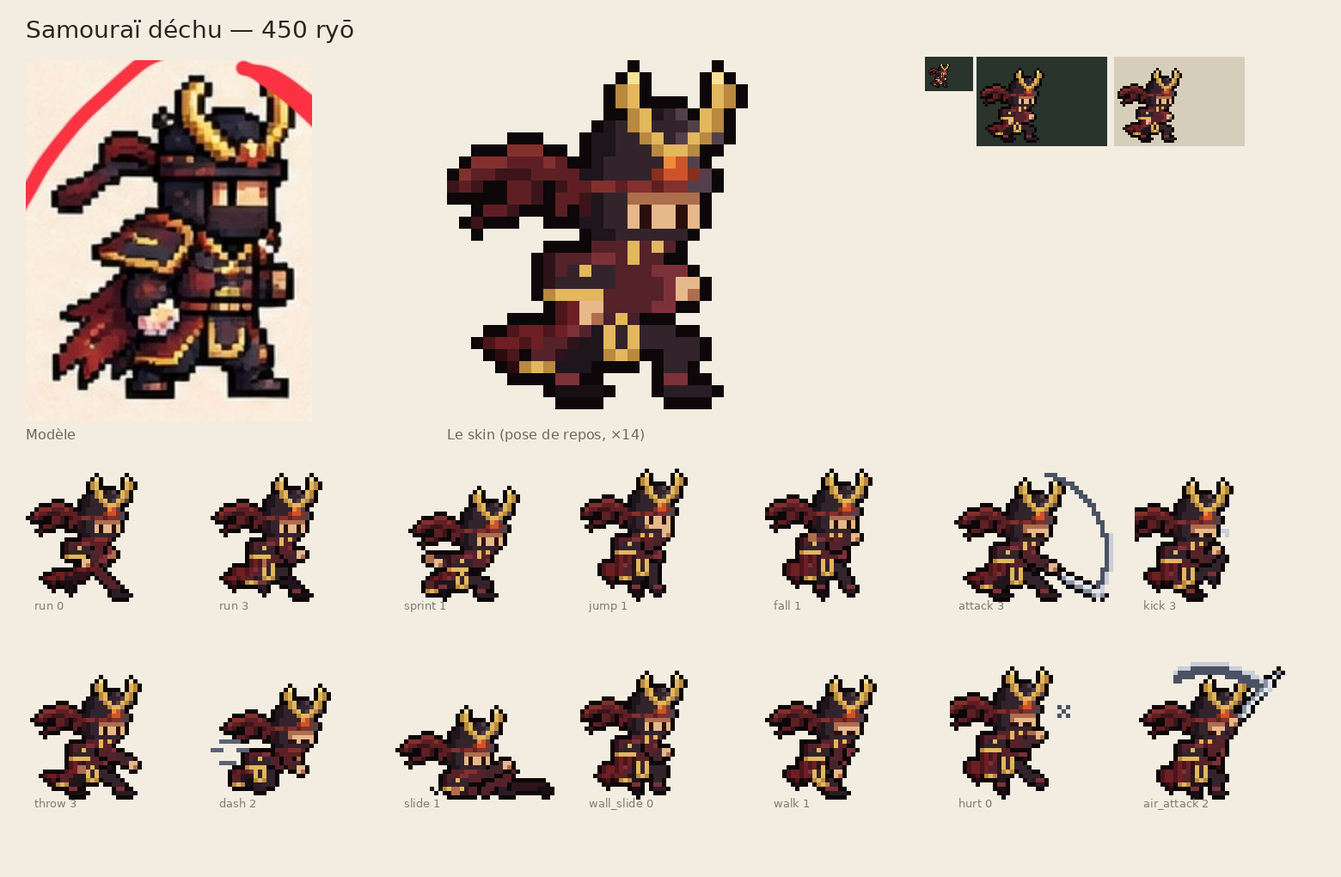
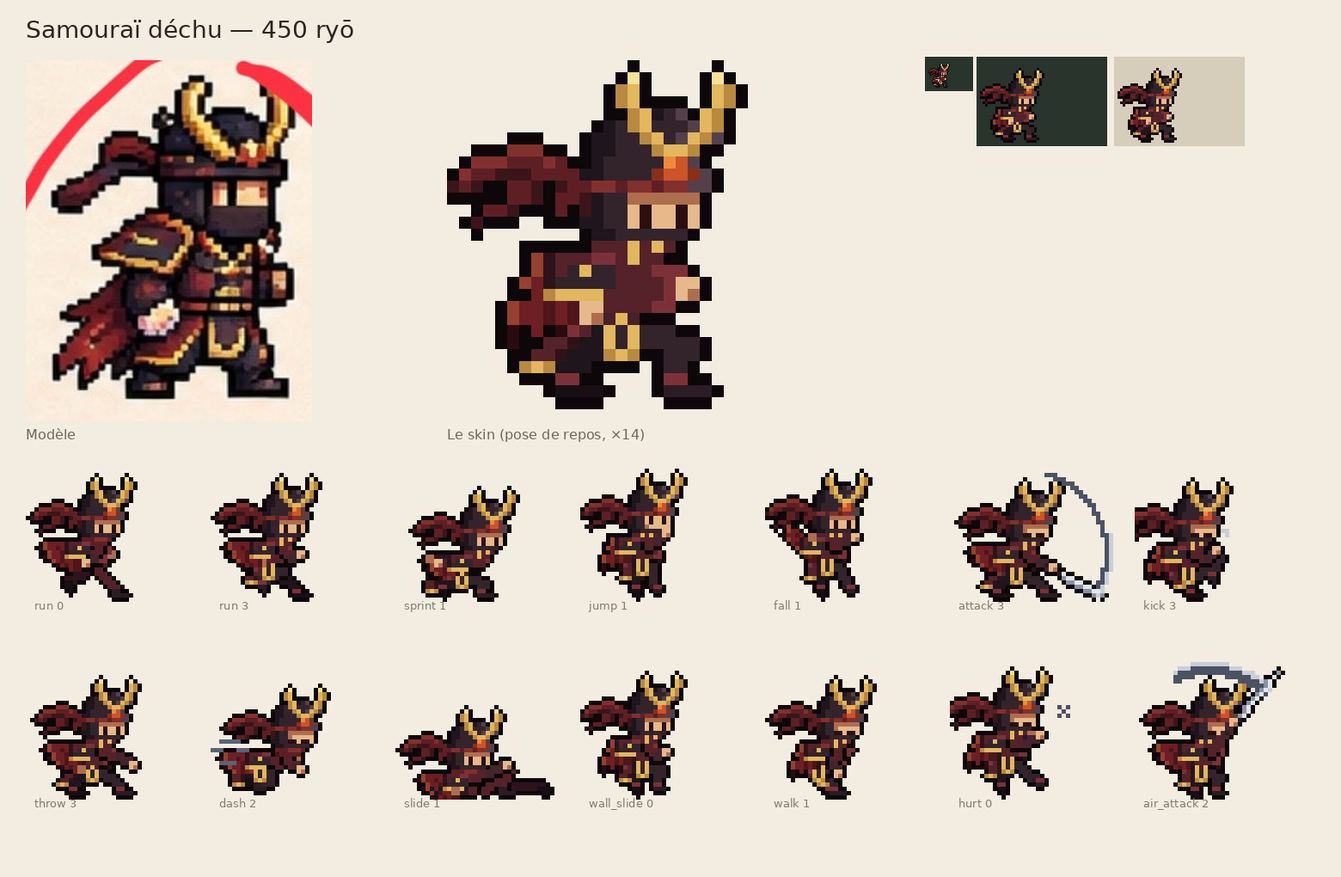
Cape du samouraï selon le vent ; boutique sans description ; panneau de test derrière un bouton
Cape du Samouraï déchu (demandes de Raph : plus large, plus courte, des angles
nets, jamais une queue ni un sac) : trois gabarits dessinés à la main (CAPE),
choisis selon le vent de la pose, lu sur les pans du bandeau que la forge
anime déjà (_wind) : au repos plaquée dans le dos des épaules aux genoux, bord
extérieur droit, une entaille sur le côté, le bas en pointes ; en course elle
vole haut derrière les épaules ; en chute elle se soulève.

Boutique : plus de description, le bouton d'achat se voit tout de suite ; sur
un écran bas (téléphone), nom en petits caractères et aperçu à l'échelle 1 ;
partout, si le bouton passait sous le bord, l'aperçu se réduit (fitDetail).

Version de test : tout le panneau (skins, chapitres, son, zones) s'ouvre et se
ferme d'un seul bouton « Réglages » ; fermé au premier lancement, puis comme
on l'a laissé.

Tests : bouton d'achat visible pour chaque skin ; panneau ouvert, refermé,
gardé fermé au rechargement. Carte mentale, SKINS.md et CLAUDE.md à jour.

Claude-Session: https://claude.ai/code/session_01A2iwx41GJ1yT1ZEu9VhwRg

diff --git a/docs/carte-mentale/index.html b/docs/carte-mentale/index.html
@@ -270,7 +270,7 @@ const BRANCHES = [
     keys: ['2 dégâts, recul 170 px/s', '0,35 s avant d\'en relancer un', 'Portée équivalente au sabre'],
     files: ['src/game/fall.js', 'tools/kage_forge/rig.py'], see: ['ennemi-chute'] },
   { id: 'kage-skins', t: 'Skins de KAGE', s: 'encours', d: 'Encre, le voyageur, le paysan, le Samouraï déchu, Lumière d’or ; six autres à reprendre un par un',
-    txt: "Un skin = une palette par slots (même animation, même boîte de collision, rien ne change dans le jeu) et des accessoires, posés pose par pose : sur la tête (grand sugegasa tressé, dessiné à la main), dans le dos (le mino de feuilles et de paille du voyageur, qui suit le bord du dos, s'évase jusqu'aux chevilles et s'effiloche ; le tonnelet doré, le panier, le bambou et le manche d'outil du paysan), sur le corps (cordon doré en pointillés et boucle de ceinture, pan de tunique, pantalon rapiécé, kimono semé de feuilles). Les pans du bandeau sont rangés (le voyageur garde un ruban qui flotte). Chaque skin a sa planche d'animation complète (la forge exporte ses accessoires sur un calque d'index, kage_acc_<skin>_index.png, fondu par le jeu sur la planche recolorée). Planches de Raph (14 novembre 2026) : après un premier essai trop rapide des dix skins entourés, on reprend un par un ; faits : le voyageur (100 ryō) et le paysan des rizières (100 ryō) ; le vagabond (50 ryō) est retiré du jeu (14 novembre 2026) ; Lumière d'or (légendaire, 600 ryō, 15 novembre 2026) : ninja bleu nuit, bandeau d'or et ses pans en flammes, étoffe dorée sur l'épaule, cordon et pans d'or à la ceinture, grande auréole à croix de lumière (sans contour) ; sabre à lame d'or et poignée de cuir, arc du coup d'or, shurikens dorés (projectileColors) ; en jeu (src/game/aura.js), un orbe doré qui flotte devant lui, deux volutes de lumière autour des jambes, des étincelles ; une légère traînée d'or derrière le coup d'épée (les images précédentes de la lame) des silhouettes dorées derrière le dash , trois reflets et un peu de poussière d'or étincelante derrière chaque shuriken (champ trail, Shurikens.dust, maskSheet dans sprites.js) ; le Samouraï déchu (rare, 450 ryō, 16 novembre 2026) : kabuto laqué à la bombe haute, cornes d'or en croissant et cimier rouge, bande rouge et ses deux pans au vent ; grande épaulière laquée bordée d'or, au haut carré (épaules plus carrées) ; cape rouge en lambeaux, près du corps, qui s'arrête au-dessus des pieds (même en boule pendant un salto) ; col d'or en V, ceinture à plaques d'or ; tassette avant bordée d'or en U, tassette arrière clouée d'or ; hakama sombre jusqu'à la jambe levée d'un coup de pied, chaussures à bande rouille ; le bras arrière rapproché du corps d'un pixel (demandes de Raph) ; sa barre de vie passe au-dessus des cornes (champ barLift). Le même jour : un calque d'accessoires sait effacer (marque ERASE, index 255 : les pans rangés, le bras déplacé) ; jusque-là, ce qu'un accessoire retirait restait visible en jeu (les pans du voyageur, du paysan et de Lumière d'or) ; et en arène, le ninja porte enfin le skin de l'aventure en cours. Les six autres (ninja blanc, écarlate, Ombre pourpre, pêcheur, Souffle de l'hiver, Renard blanc) attendent en brouillon (tools/kage_forge/skins_brouillon/), hors du jeu. Nouveaux slots : gear (b B i) et gear2 (j J).",
+    txt: "Un skin = une palette par slots (même animation, même boîte de collision, rien ne change dans le jeu) et des accessoires, posés pose par pose : sur la tête (grand sugegasa tressé, dessiné à la main), dans le dos (le mino de feuilles et de paille du voyageur, qui suit le bord du dos, s'évase jusqu'aux chevilles et s'effiloche ; le tonnelet doré, le panier, le bambou et le manche d'outil du paysan), sur le corps (cordon doré en pointillés et boucle de ceinture, pan de tunique, pantalon rapiécé, kimono semé de feuilles). Les pans du bandeau sont rangés (le voyageur garde un ruban qui flotte). Chaque skin a sa planche d'animation complète (la forge exporte ses accessoires sur un calque d'index, kage_acc_<skin>_index.png, fondu par le jeu sur la planche recolorée). Planches de Raph (14 novembre 2026) : après un premier essai trop rapide des dix skins entourés, on reprend un par un ; faits : le voyageur (100 ryō) et le paysan des rizières (100 ryō) ; le vagabond (50 ryō) est retiré du jeu (14 novembre 2026) ; Lumière d'or (légendaire, 600 ryō, 15 novembre 2026) : ninja bleu nuit, bandeau d'or et ses pans en flammes, étoffe dorée sur l'épaule, cordon et pans d'or à la ceinture, grande auréole à croix de lumière (sans contour) ; sabre à lame d'or et poignée de cuir, arc du coup d'or, shurikens dorés (projectileColors) ; en jeu (src/game/aura.js), un orbe doré qui flotte devant lui, deux volutes de lumière autour des jambes, des étincelles ; une légère traînée d'or derrière le coup d'épée (les images précédentes de la lame) des silhouettes dorées derrière le dash , trois reflets et un peu de poussière d'or étincelante derrière chaque shuriken (champ trail, Shurikens.dust, maskSheet dans sprites.js) ; le Samouraï déchu (rare, 450 ryō, 16 novembre 2026) : kabuto laqué à la bombe haute, cornes d'or en croissant et cimier rouge, bande rouge et ses deux pans au vent ; grande épaulière laquée bordée d'or, au haut carré (épaules plus carrées) ; cape rouge en lambeaux, dessinée à la main pour chaque vent (lu sur les pans du bandeau de la pose) : au repos plaquée dans le dos des épaules aux genoux, angles nets, une entaille sur le côté, le bas en pointes ; en course elle vole haut derrière les épaules ; en chute elle se soulève ; col d'or en V, ceinture à plaques d'or ; tassette avant bordée d'or en U, tassette arrière clouée d'or ; hakama sombre jusqu'à la jambe levée d'un coup de pied, chaussures à bande rouille ; le bras arrière rapproché du corps d'un pixel (demandes de Raph) ; sa barre de vie passe au-dessus des cornes (champ barLift). Le même jour : un calque d'accessoires sait effacer (marque ERASE, index 255 : les pans rangés, le bras déplacé) ; jusque-là, ce qu'un accessoire retirait restait visible en jeu (les pans du voyageur, du paysan et de Lumière d'or) ; et en arène, le ninja porte enfin le skin de l'aventure en cours. Les six autres (ninja blanc, écarlate, Ombre pourpre, pêcheur, Souffle de l'hiver, Renard blanc) attendent en brouillon (tools/kage_forge/skins_brouillon/), hors du jeu. Nouveaux slots : gear (b B i) et gear2 (j J).",
     keys: ['5 skins en jeu', '6 en brouillon', 'gear b B i · gear2 j J', 'effacer : index 255'],
     files: ['assets/characters/kage/skins/', 'src/engine/sprites.js', 'tools/kage_forge/accessories.py', 'tools/kage_forge/palette.py', 'tools/kage_forge/skin_design.py', 'tools/kage_forge/skin_sheets.py', 'tools/kage_forge/skins_brouillon/', 'src/game/shop.js', 'src/game/aura.js', 'docs/SKINS.md'],
     links: [['Le voyageur, face à son modèle', 'docs/kage/skins/voyageur_planche.png'], ['Le paysan, face à son modèle', 'docs/kage/skins/paysan_planche.png'], ['Lumière d’or, face à son modèle', 'docs/kage/skins/or_planche.png'], ['Le Samouraï déchu, face à son modèle', 'docs/kage/skins/samourai_planche.png'], ['Le Samouraï déchu, toutes les animations', 'docs/kage/skins/planche_samourai.png']], see: ['sys-boutique', 'hab-marchand'] },
@@ -490,7 +490,7 @@ const BRANCHES = [
   { id: 'sys-caisses', t: 'Caisses', s: 'fait', d: 'À briser au sabre, une pièce dedans',
     txt: "Apprises dans la grange (zone 6). Elles tombent quand plus rien ne les porte (chute lourde, poussière ; elles blessent KAGE si elles lui tombent dessus). Chaque caisse brisée est enregistrée (par sa place d'origine). Les marches vers la poutre du milieu sont des bottes de foin incassables.", files: ['src/game/level.js'], see: ['pot-z06'] },
   { id: 'sys-boutique', t: 'Boutique', s: 'fait', d: 'Plein écran : tous les skins dès le chapitre 1',
-    txt: "« ↑ / E : parler » devant le comptoir ouvre la boutique, sur tout l'écran, et met le jeu en pause (refaite le 14 novembre 2026). En haut, l'enseigne, les rayons et la bourse ; à gauche, les cartes des skins (vignette, cadre à la couleur de la rareté : commun, peu commun, rare, épique, légendaire ; prix, « Acquis » ou « Porté »), tous en vente dès le chapitre 1 ; un clic (ou les flèches) ouvre le skin en grand à droite : il s'anime (repos, course, saut, sabre, sprint, coup de pied, shuriken), avec sa rareté, sa description, son prix ; l'achat se confirme (« L'acheter pour … ryō ? ») ; en bas, la réplique du marchand et « Reprendre la route ». Le skin porté et les skins achetés sont sauvegardés. Dans la version de test, tous les skins se portent sans achat.",
+    txt: "« ↑ / E : parler » devant le comptoir ouvre la boutique, sur tout l'écran, et met le jeu en pause (refaite le 14 novembre 2026). En haut, l'enseigne, les rayons et la bourse ; à gauche, les cartes des skins (vignette, cadre à la couleur de la rareté : commun, peu commun, rare, épique, légendaire ; prix, « Acquis » ou « Porté »), tous en vente dès le chapitre 1 ; un clic (ou les flèches) ouvre le skin en grand à droite : il s'anime (repos, course, saut, sabre, sprint, coup de pied, shuriken), avec sa rareté et son prix (plus de description depuis le 16 novembre 2026 : le bouton d'achat se voit tout de suite ; sur un écran bas, un téléphone, le nom passe en petits caractères et l'aperçu à l'échelle 1) ; l'achat se confirme (« L'acheter pour … ryō ? ») ; en bas, la réplique du marchand et « Reprendre la route ». Le skin porté et les skins achetés sont sauvegardés. Dans la version de test, tous les skins se portent sans achat.",
     files: ['src/game/shop.js', 'index.html', 'src/style.css'], see: ['hab-marchand', 'kage-skins'] },
   { id: 'sys-aides', t: 'Aides contextuelles', s: 'fait', d: 'Une commande à la fois',
     txt: "Seulement dans le premier chapitre : la commande s'affiche au moment où elle sert et disparaît dès qu'elle est utilisée (ou après 9 s). Textes ordinateur et tactile.",
@@ -518,7 +518,7 @@ const BRANCHES = [
   { id: 'tech-cartes', t: 'Cartes en ASCII', s: 'fait', d: 'Une lettre par case',
     txt: "Niveaux décrits en texte, légende en tête du fichier : E = TATE, W = WARA, C = gong, D = porte, P = lanterne, G = arrivée, o = ryō, B = caisse, M = marchand, = bois, | bambou, ~ eau, % bloc invisible, - passerelle (traversable par-dessous), _ plateforme fragile de l'arène, K blocs d'une grue (posés par le niveau).",
     files: ['src/game/maps.js', 'src/game/level.js'] },
-  { id: 'tech-tests', t: '95 tests de bout en bout', s: 'fait', d: 'Chaque passage reste faisable',
+  { id: 'tech-tests', t: '96 tests de bout en bout', s: 'fait', d: 'Chaque passage reste faisable',
     txt: "Playwright dans Chromium : terrain d'essai, tactile, niveau 1, Potager. Chaque trou et passage bas a son test de faisabilité et demande bien la mécanique prévue ; aussi la caméra, les sons, la sauvegarde, la boutique et l'achat d'un skin, le combat contre KARASU-KASHI et l'introduction (jouée par un seul test, passée par les autres : __KAGE_SKIP_INTRO).",
     keys: ['npm test = build + version autonome + tests'], files: ['tests/e2e.cjs'] },
   { id: 'tech-standalone', t: 'Version en un fichier', s: 'fait', d: 'dist/kage-standalone.html',
@@ -559,7 +559,7 @@ const BRANCHES = [
   { id: 'proj-site', t: 'Site du jeu', s: 'fait', d: 'Public, mis à jour automatiquement',
     txt: "La version en ligne du jeu, mise à jour à chaque push sur main.", links: [['Jouer en ligne', 'https://raphgh31.github.io/ninja-video-game/']], see: ['tech-deploy'] },
   { id: 'proj-test', t: 'Les deux artefacts', s: 'fait', d: 'Le jeu, et la version de test de Raph',
-    txt: "Organisation demandée par Raph (novembre 2026), renommés avec le jeu le 15 novembre 2026. « The Ninja Adventure » : le jeu tel que tout le monde le verra (dist/kage-standalone.html). « The Ninja Adventure Test » (partagé par lien) : la version où Raph essaie (dist/kage-test.html) — pas d'écran titre, et un panneau en haut à droite : tous les skins sans achat (clic ou touches 1, 2…), les chapitres en un clic, et le saut de zone en zone (KAGE est posé à la lanterne de la zone). Les deux sont republiés à chaque étape.",
+    txt: "Organisation demandée par Raph (novembre 2026), renommés avec le jeu le 15 novembre 2026. « The Ninja Adventure » : le jeu tel que tout le monde le verra (dist/kage-standalone.html). « The Ninja Adventure Test » (partagé par lien) : la version où Raph essaie (dist/kage-test.html) — pas d'écran titre, et un panneau en haut à droite : tous les skins sans achat (clic ou touches 1, 2…), les chapitres en un clic, et le saut de zone en zone (KAGE est posé à la lanterne de la zone). Depuis le 16 novembre 2026, tout le panneau s'ouvre et se ferme d'un seul bouton « Réglages » (fermé au premier lancement, puis comme on l'a laissé) : refermé, il n'empiète plus sur l'image ; les touches 1, 2… marchent toujours. Les deux sont republiés à chaque étape.",
     files: ['src/main.js', 'tools/standalone.mjs'], links: [['The Ninja Adventure', 'https://claude.ai/artifact/Cjj8EJCrABmuHzWypJC2cm'], ['The Ninja Adventure Test', 'https://claude.ai/artifact/ScyWi7qXjftmdLs6Qxo7Ys']], see: ['tech-standalone', 'kage-skins'] },
   { id: 'proj-historique', t: 'Grandes étapes', s: 'fait', d: 'De la PR #1 à la PR #31',
     txt: "KAGE, TATE, niveau 1 et tactile (#1) ; WARA (#2) ; plan du monde (#3) ; sprint au joystick (#8) ; le Potager en greybox (#9) ; refonte visuelle du Potager (#11) ; musique (#13) ; bruitages (#12, #14 à #16) ; lanternes par zone (#17) ; grenier de la grange (#18) ; série Potager et KARASU-KASHI (#19) ; cette carte mentale (#20) ; fin du chapitre 1 (#23) ; retouches du chapitre 1 (#24) ; chapitre 2, la Forêt (#25) ; saltos et détours (#26) ; Lumière d'or, correctif du corbeau, arène du Potager et jeu à plusieurs (#27) ; arène v2 (#28) ; plateforme du gong (#29) ; The Ninja Adventure, nouveau menu, salon et modes (#30) ; menus sobres, Mon ninja en grand, arène rapprochée sur téléphone, messages de reprise (#31).",

diff --git a/src/game/shop.js b/src/game/shop.js
@@ -3,8 +3,9 @@ import { drawAura } from './aura.js';
 // Boutique du marchand ambulant — plein écran (refaite en novembre 2026, demande de Raph).
 // Rayon « Apparences » : tous les skins de KAGE (assets/characters/kage/skins/*.json, champ `price` en
 // ryō), en vente dès le chapitre 1. Une grille de cartes (vignette, cadre à la couleur de la rareté, prix) ;
-// un clic ouvre le skin en grand à droite (il s'anime : repos, course, saut, sabre…), avec sa rareté, sa
-// description, son prix, et l'achat, à confirmer. Encre est toujours possédé.
+// un clic ouvre le skin en grand à droite (il s'anime : repos, course, saut, sabre…), avec sa rareté, son
+// prix, et l'achat, à confirmer (sans description : le bouton d'achat se voit tout de suite, demande de Raph,
+// 16 novembre 2026). Encre est toujours possédé.
 // Version de test (window.__KAGE_TEST) : tous les skins se portent sans achat.
 // Les rayons Ressources et Objets sont encore vides.
 
@@ -159,7 +160,7 @@ export class Shop {
     this.showDetail();
   }
 
-  /** Le skin choisi, en grand : rareté, nom, aperçu animé, description, prix, et l'achat (à confirmer). */
+  /** Le skin choisi, en grand : rareté, nom, aperçu animé, prix, et l'achat (à confirmer). */
   showDetail() {
     const id = this.selected, sk = this.wardrobe.skins[id];
     if (!sk) return;
@@ -172,12 +173,13 @@ export class Shop {
     const stage = el('div', 'shop__stage');
     this.preview = document.createElement('canvas');
     this.preview.className = 'shop__preview';
-    this.preview.width = 114; this.preview.height = 72;
+    // (sur un écran bas, un téléphone : l'aperçu à l'échelle 1 — aussi grand que le ninja en jeu — pour que le
+    // bouton d'achat tienne dans le panneau)
+    this.pz = this.root.closest('.short') ? 1 : 2;
+    this.preview.width = 57 * this.pz; this.preview.height = 36 * this.pz;
     stage.append(this.preview);
     this.showT0 = performance.now();
     this.detail.append(el('p', 'shop__rar', rar.name), el('h3', 'shop__name', sk.name), stage);
-    // (pendant la confirmation, la question prend la place de la description)
-    if (!this.confirming) this.detail.append(el('p', 'shop__desc', sk.description ?? sk.blurb ?? ''));
     const act = el('div', 'shop__act');
     act.dataset.act = '';
     if (this.confirming) {
@@ -209,6 +211,19 @@ export class Shop {
       act.append(b);
     }
     this.detail.append(act);
+    // le bouton doit toujours se voir sans défiler : s'il passe sous le bord (un nom long sur deux lignes, une
+    // image peu haute), l'aperçu passe à l'échelle 1 (mesuré une fois le texte en pixels posé)
+    requestAnimationFrame(() => this.fitDetail());
+  }
+
+  fitDetail() {
+    const d = this.detail, a = d?.querySelector('.shop__act'), cv = this.preview;
+    if (!a || !cv?.isConnected || this.pz === 1) return;
+    if (a.getBoundingClientRect().bottom > d.getBoundingClientRect().bottom + 0.5) {
+      this.pz = 1;
+      cv.width = 57; cv.height = 36;
+      cv.classList.add('shop__preview--small');
+    }
   }
 
   buy(id) {
@@ -254,10 +269,11 @@ export class Shop {
     c.imageSmoothingEnabled = false;
     c.clearRect(0, 0, cv.width, cv.height);
     // une ombre portée sous ses pieds
+    const z = this.pz ?? 2;
     c.fillStyle = 'rgba(0,0,0,.35)';
-    c.fillRect(20, 68, 40, 2);
-    c.drawImage(sk.sheet, f.x, f.y, f.w, f.h, 0, 0, f.w * 2, f.h * 2);
-    if (sk.aura) drawAura(c, meta.pivot.x, meta.pivot.y, 1, performance.now() / 1000, 2);
+    c.fillRect(10 * z, 34 * z, 20 * z, z);
+    c.drawImage(sk.sheet, f.x, f.y, f.w, f.h, 0, 0, f.w * z, f.h * z);
+    if (sk.aura) drawAura(c, meta.pivot.x, meta.pivot.y, 1, performance.now() / 1000, z);
   }
 
   /** Les flèches passent d'une carte à l'autre. */

diff --git a/src/main.js b/src/main.js
@@ -758,6 +758,10 @@ function setupSkinLab() {
   document.title = 'The Ninja Adventure — Test';
   const lab = document.createElement('div');
   lab.className = 'lab';
+  // tout le panneau (skins, chapitres, zones…) s'ouvre et se ferme d'un seul bouton ; fermé, on ne voit que
+  // ce bouton (demande de Raph : que le panneau n'empiète pas sur l'image)
+  const panel = document.createElement('div');
+  panel.className = 'lab__panel';
   const stop = (el) => el.addEventListener('pointerdown', (e) => e.stopPropagation());
   const button = (label, title, onClick) => {
     const b = document.createElement('button');
@@ -798,7 +802,7 @@ function setupSkinLab() {
     const n = Number(e.key);
     if (n >= 1 && n <= ids.length) pick(ids[n - 1]);
   });
-  lab.append(bar);
+  panel.append(bar);
   // --- chapitres : un clic recharge la page sur le chapitre choisi ---
   const chapters = Object.entries(LEVELS).filter(([, l]) => l.chapter != null).sort((a, b) => a[1].chapter - b[1].chapter);
   const row = document.createElement('div');
@@ -831,13 +835,13 @@ function setupSkinLab() {
   const again = button('Intro', 'Rejouer l\'introduction', () => playIntro());
   again.dataset.labIntro = '';
   row.append(again);
-  lab.append(row);
+  panel.append(row);
   // témoin du son (pour comprendre, sur l'appareil de l'utilisateur, pourquoi une musique ne sort pas)
   const sound = document.createElement('div');
   sound.className = 'lab__row lab__sound';
   const soundText = document.createElement('span');
   sound.append(soundText);
-  lab.append(sound);
+  panel.append(sound);
   const SOUND = { running: 'en marche', suspended: 'suspendu', interrupted: 'interrompu', closed: 'fermé' };
   setInterval(() => {
     const ac = audioOutput()?.ac;
@@ -857,8 +861,18 @@ function setupSkinLab() {
     const next = button('→', 'Zone suivante', () => gotoZone(cur() + 1));
     next.dataset.zone = 'next';
     zr.append(prev, labZone, next);
-    lab.append(zr);
+    panel.append(zr);
   }
+  const toggle = button('Réglages', 'Ouvrir ou fermer le panneau de test', () => setOpen(panel.hidden));
+  toggle.className = 'lab__toggle';
+  toggle.dataset.labToggle = '';
+  function setOpen(open) {
+    panel.hidden = !open;
+    toggle.setAttribute('aria-expanded', String(open));
+    labSet('open', open ? '1' : '0');
+  }
+  setOpen(labGet('open') === '1');      // fermé au premier lancement, puis comme on l'a laissé
+  lab.append(toggle, panel);
   uiLayer.append(lab);
   pick(skins[labGet('skin')] ? labGet('skin') : 'encre');
 }

diff --git a/src/style.css b/src/style.css
@@ -323,8 +323,10 @@ body.mobile .talk { padding-left: 6px; }
 .shop__name { margin: 0; --pxf: big; color: #f3e3c3; --pxw: 146; text-align: center; }
 .shop__stage { padding: 2px; background: #170f0a; border: 1px solid #3a2a1e; }
 .shop__preview { display: block; width: 114px; height: 72px; image-rendering: pixelated; }
-.shop__desc { margin: 0; color: #bfae90; --pxw: 144; text-align: center; }
-.shop__blurb { margin: 0; color: #8d7d64; --pxw: 144; text-align: center; }
+/* écran bas (téléphone) : le nom sur une ligne, l'aperçu à l'échelle 1 : le bouton d'achat reste visible */
+.short .shop__detail { gap: 1px; padding: 2px 3px; }
+.short .shop__name { --pxf: small; }
+.short .shop__preview, .shop__preview--small { width: 57px; height: 36px; }
 .shop__act { display: flex; gap: 3px; flex-wrap: wrap; justify-content: center; margin-top: 2px; }
 .shop__ask { margin: 0; width: 100%; color: #f3e3c3; --pxw: 144; text-align: center; }
 .shop .shop__buy, .shop .shop__yes { background: #8e6a44; border-color: #c49a5e; color: #fff7e6; }
@@ -356,8 +358,12 @@ body.mobile .talk { padding-left: 6px; }
 body.mobile .touch-layer { position: absolute; left: 0; top: 0; z-index: 1; touch-action: none;
   image-rendering: pixelated; image-rendering: crisp-edges; }
 
-/* panneau de la version de test : skins, chapitres, zones (en haut à droite de l'image) */
+/* panneau de la version de test : skins, chapitres, zones (en haut à droite de l'image), derrière le bouton « Réglages » */
 .lab { position: absolute; z-index: 6; top: 5px; right: 5px; display: grid; gap: 2px; justify-items: end; pointer-events: none; }   /* au-dessus de l'intro (3), du menu (4) et des cartes de chapitre (5) */
+.lab__panel { display: grid; gap: 2px; justify-items: end; }
+.lab__panel[hidden] { display: none; }
+.lab .lab__toggle { pointer-events: auto; padding: 1px 5px 2px; background: rgba(20, 16, 12, .78); border: 1px solid #5a4330; }
+.lab .lab__toggle[aria-expanded="true"] { border-color: #8e6a44; color: #fff7e6; }
 .skinlab, .lab__row { pointer-events: auto; display: flex; align-items: center; gap: 2px; padding: 2px;
   background: rgba(20, 16, 12, .78); border: 1px solid #5a4330; }
 .lab button { display: grid; justify-items: center; gap: 0; color: #d8cdb4;

diff --git a/tools/kage_forge/accessories.py b/tools/kage_forge/accessories.py
@@ -869,53 +869,93 @@ def hakama(g):
     return g, True
 
 
+def _wind(g, hx, hy):
+    """Le vent de la pose, lu sur les pans du bandeau de KAGE (la forge les anime déjà) : « calm » quand ils
+    pendent (repos, marche, liane, glissade murale…), « back » quand ils filent à l'horizontale derrière lui
+    (course, sprint, dash, coups lancés), « up » quand ils se dressent (chute)."""
+    pts = [(y, x) for y in range(CH) for x in range(CW) if g[y, x] in "fFG" and (x < hx + 2 or y < hy)]
+    if not pts:
+        return "calm"                                 # (salto : la forge trace les pans après)
+    reach = hx - min(x for _, x in pts)
+    low = max(y for y, _ in pts) - hy
+    high = hy - min(y for y, _ in pts)
+    if reach >= 9 and low <= 9:
+        return "back"
+    if high >= 4 and reach >= 6 and low <= 4:
+        return "up"
+    return "calm"
+
+
+# la cape, dessinée à la main pour chaque vent (des angles nets, des côtés déchirés : jamais un sac ni une queue).
+# Chaque rangée est calée à droite contre le dos (le dernier caractère touche le bord arrière de l'épaule) ;
+# (première rangée, relative à la tête). Lumière à gauche : le bord extérieur clair (Q), le creux contre le
+# dos à l'ombre (p), un pli (p) ; r : le bout sombre d'un lambeau.
+CAPE = {
+    # au repos : plaquée dans le dos, des épaules aux genoux ; bord extérieur droit, une entaille sur le côté,
+    # le bas en pointes déchirées
+    "calm": (10, [
+        "..QPPpp",
+        "..QPPpp",
+        ".QPpPpp",
+        "..PpPpp",
+        "QPPpPpp",
+        "QPPpPpp",
+        "r.P.r.p",
+        "r...r..",
+    ]),
+    # en course : elle vole haut derrière les épaules, le bord du haut bien droit, trois lambeaux au bout
+    "back": (10, [
+        ".QPPPPPpPp",
+        "rQPPpPPpPp",
+        "..QPPpPPpp",
+        ".rQPPpPPpp",
+        "...QPpPPpp",
+        "....rPpPpp",
+        ".......Ppp",
+    ]),
+    # en chute : elle se soulève derrière lui
+    "up": (7, [
+        "rQ......",
+        ".QPP....",
+        "rPPpP...",
+        ".QPPpPp.",
+        "..PpPPpp",
+        "...QPpPp",
+        "....PpPp",
+        ".....pPp",
+        "......pp",
+    ]),
+}
+
+
 def rag(g):
-    """La cape rouge déchirée : du dessous de l'épaulière jusqu'aux mollets, derrière le corps ; elle s'évase
-    vers l'arrière, plis sombres, accrocs plus clairs, le bas en lambeaux (trois pointes inégales)."""
+    """La cape rouge déchirée, sous l'épaulière (demandes de Raph : plus large, plus courte, des angles nets,
+    jamais une queue ni un sac). Au repos, elle tombe plaquée dans le dos, des épaules aux genoux ; en course,
+    elle vole haut derrière les épaules ; en chute, elle se soulève (gabarits CAPE)."""
     pos = find_head(g)
     if pos is None:
         return g, False
     hx, hy = pos
+    wind = _wind(g, hx, hy)
+    xs = _back_edge(g, hy + 11, hx, TORSO)
+    if xs is None:
+        return g, False
     g = g.copy()
     mask = np.zeros(g.shape, bool)
-    # elle s'arrête au-dessus des pieds, quelle que soit la pose (en boule, pendant un salto, le corps finit
-    # plus haut)
-    feet = [y for y in range(CH) if any(c in "tTUdDhHI" for c in g[y])]
-    ys, ye = hy + 10, min(hy + 18, (max(feet) if feet else CH) - 4)
-    widths = [2, 3, 3, 3, 4, 4, 5, 5, 5]
-    TIPS = (1, 0, 2, 1, 0, 2)                     # longueur des lambeaux sous le bas, selon la distance au dos
     TAILS = set("fFGkK")
-    prev = None
-    for y in range(ys, ye + 4):
-        if not 0 <= y < CH:
+    # (en boule, pendant un salto, le corps finit plus haut : la cape aussi)
+    feet = [y for y in range(CH) if any(c in "tTUdDhHI" for c in g[y])]
+    bottom = (max(feet) if feet else CH) - 3
+    dy0, rows = CAPE[wind]
+    for j, row in enumerate(rows):
+        y = hy + dy0 + j
+        if not 0 <= y < CH or (wind == "calm" and y > bottom):
             continue
-        xl = _back_edge(g, min(y, ye), hx, TORSO)
-        if xl is None:
-            xl = prev
-        if xl is None:
-            continue
-        prev = xl
-        k = y - ys
-        w = min(widths[min(k, len(widths) - 1)], xl - 1)     # (jamais coupée par le bord de l'image)
-        for x in range(xl - w, xl):
-            if not 0 <= x < CW or not (g[y, x] in BG or g[y, x] in TAILS):
-                continue
-            u = xl - 1 - x                            # distance derrière le dos
-            last = ye - ys + 1
-            if k >= last:
-                if k - last + 1 > TIPS[u % len(TIPS)]:
-                    continue
-            c = "P"
-            if u % 3 == 1 and k >= 2:
-                c = "p"                               # un pli
-            if u == w - 1:
-                c = "p"                               # le bord, à l'ombre
-            if k >= last:
-                c = "r" if k - last + 1 == TIPS[u % len(TIPS)] else "p"
-            if _h(u, k, 7) < 0.12 and c == "P":
-                c = "Q"                               # un accroc plus clair
-            g[y, x] = c
-            mask[y, x] = True
+        for i, c in enumerate(row):
+            x = xs - len(row) + i
+            if c != "." and 1 <= x < CW and (g[y, x] in BG or g[y, x] in TAILS):
+                g[y, x] = c
+                mask[y, x] = True
     _outline(g, mask)
     return g, True
 

diff --git a/docs/SKINS.md b/docs/SKINS.md
@@ -15,7 +15,7 @@ Tout ce qu'il faut savoir pour **créer un skin** du ninja de *The Ninja Adventu
 | `encre` | Encre | origine | — | — | le skin d'origine, toujours possédé |
 | `voyageur` | Le voyageur | commun | 100 | `ribbon`, `mino`, `sash`, `apron`, `kasa_leaf` | sugegasa tressé, manteau de feuilles et de paille, cordon doré |
 | `paysan` | Paysan des rizières | commun | 100 | `notails`, `pants`, `dots`, `farmer`, `sash`, `kasa` | kimono vert, tonnelet et panier sur le dos, bambou |
-| `samourai` | Samouraï déchu | rare | 450 | `arm_in`, `hakama`, `kusazuri`, `rag`, `sode`, `samurai_trim`, `kabuto` | kabuto aux cornes d'or en croissant et cimier rouge, pans au vent, grande épaulière carrée, cape en lambeaux, tassettes bordées d'or ; bras arrière rapproché du corps ; `barLift: 4` (barre de vie au-dessus des cornes) |
+| `samourai` | Samouraï déchu | rare | 450 | `arm_in`, `hakama`, `kusazuri`, `rag`, `sode`, `samurai_trim`, `kabuto` | kabuto aux cornes d'or en croissant et cimier rouge, pans au vent, grande épaulière carrée, cape en lambeaux (plaquée au repos, au vent en course), tassettes bordées d'or ; bras arrière rapproché du corps ; `barLift: 4` (barre de vie au-dessus des cornes) |
 | `or` | Lumière d'or | légendaire | 600 | `flametails`, `halo`, `hipcloth`, `mantlet`, `sash`, `apron` | `aura: 'gold'` (éclat : `src/game/aura.js`), shurikens dorés (`projectileColors`), traînées d'or (`trail`), poussière d'or derrière les shurikens (`goldDust`, `src/game/shuriken.js`) |
 
 **Brouillons** (`tools/kage_forge/skins_brouillon/`, hors du jeu) : un premier jet trop rapide, à **refaire un par un, fidèles au modèle** (le Samouraï déchu est fait, 16 novembre 2026) :
@@ -58,7 +58,7 @@ Les **modèles** sont des planches dessinées par Raph : il les envoie en image 
 | `id`, `name` | identifiant et nom affiché |
 | `rarity` | `commun`, `peu commun`, `rare`, `épique` ou `légendaire` (couleurs : `RARITIES` dans `src/game/shop.js`) |
 | `price` | prix en ryō |
-| `description` | ce qu'il porte (boutique) |
+| `description` | ce qu'il porte (n'est plus affichée en boutique depuis le 16 novembre 2026 : le bouton d'achat doit se voir sans défiler) |
 | `blurb` | une phrase d'ambiance |
 | `accessories` | la liste des accessoires |
 | `colors` | **tous** les slots |
@@ -77,7 +77,7 @@ Champs facultatifs :
   - `ribbon` (pans du bandeau flottants), `notails` ;
   - `sash`, `apron`, `hipcloth`, `mantlet`, `pants`, `dots` ;
   - `halo`, `flametails`, `fur`, `cord` ;
-  - samouraï : `sode` (épaulière), `rag` (cape en lambeaux, qui s'arrête au-dessus des pieds quelle que soit la pose), `kusazuri` (tassettes), `hakama` (les jambes, jusqu'à la jambe levée d'un coup de pied), `samurai_trim` (col, ceinture, épaule avant, chaussures), `arm_in` (le bras arrière rapproché d'un pixel du corps quand il pend derrière le dos).
+  - samouraï : `sode` (épaulière), `rag` (cape en lambeaux : un gabarit dessiné à la main pour chaque vent, `CAPE` ; le vent est lu sur les pans du bandeau de la pose, `_wind` : plaquée au repos, au vent en course, soulevée en chute), `kusazuri` (tassettes), `hakama` (les jambes, jusqu'à la jambe levée d'un coup de pied), `samurai_trim` (col, ceinture, épaule avant, chaussures), `arm_in` (le bras arrière rapproché d'un pixel du corps quand il pend derrière le dos).
 - Un accessoire peut aussi **retirer** des pixels de la pose (les pans du bandeau rangés, un bras déplacé) : la forge marque ces pixels sur le calque (`ERASE`, index 255, `build.py`) et le jeu les efface avant de poser l'accessoire (`eraseMask`, `src/engine/sprites.js` ; de même `skin_sheets.py`). Avant le 16 novembre 2026, ce qu'un accessoire retirait restait visible en jeu.
 - Les accessoires peignent dans les slots `gear` (`b B i`) et `gear2` (`j J`), plus ceux du chapeau (`r p P Q`) et de la cordelette (`c C`).
 - Ils passent derrière la lame et les mains.
@@ -90,13 +90,13 @@ Champs facultatifs :
 - **Agrandissement** : les poses sont dessinées en cellule 48×32, puis agrandies de 20 % à l'export (`scale.py`, cellule 57×36). Un accessoire se dessine à l'échelle des poses.
 
 **5. Dans le jeu**
-- Boutique plein écran du marchand (`src/game/shop.js`), rayon Apparences : cartes triées par prix, cadre à la couleur de la rareté, aperçu animé (repos, course, saut, sabre, sprint, coup de pied, shuriken), achat confirmé.
+- Boutique plein écran du marchand (`src/game/shop.js`), rayon Apparences : cartes triées par prix, cadre à la couleur de la rareté, aperçu animé (repos, course, saut, sabre, sprint, coup de pied, shuriken), sans description (le bouton d'achat se voit tout de suite), achat confirmé.
 - Sauvegarde : `skins` (possédés) et `skin` (porté).
 - Le skin porté s'affiche aussi :
   - dans le menu (carte « Aventure », écran « Mon ninja » où le ninja est en grand) ;
   - en arène : le ninja porte le skin de l'aventure en cours, et son portrait dans le salon (corrigé le 16 novembre 2026 : il y restait en Encre) ;
   - chez les autres joueurs en arène (message `me`).
-- **Version de test** (« The Ninja Adventure Test », `dist/kage-test.html`) : tous les skins se portent sans achat (panneau en haut à droite, clic ou touches 1, 2…).
+- **Version de test** (« The Ninja Adventure Test », `dist/kage-test.html`) : tous les skins se portent sans achat (panneau en haut à droite, derrière le bouton « Réglages » ; clic ou touches 1, 2…).
 - **Version autonome** : `tools/standalone.mjs` embarque d'elle-même tous les skins listés dans `kage.json`.
 
 ---

diff --git a/CLAUDE.md b/CLAUDE.md
@@ -10,7 +10,7 @@ Jeu de plateforme 2D rapide (esprit Geometry Dash), pixel art. Répondre en fran
 - **Pour construire un nouveau chapitre : lire `docs/GUIDE_CHAPITRE.md`** (méthode par phases, leçons du chapitre 1 à anticiper, architecture d'un chapitre, liste de contrôle).
 - **Lire d'abord `docs/REPRISE.md`** : état du projet, décisions de design, valeurs de réglage, carte des fichiers, préférences de l'utilisateur, pistes restantes.
 - **Site du jeu** : https://raphgh31.github.io/ninja-video-game/ — mis en ligne automatiquement par `.github/workflows/deploy.yml` à chaque push sur `main` (réglage du dépôt : *Settings → Pages → Source : GitHub Actions*). Après une fusion, vérifier que le workflow a réussi et tester le site.
-- **Deux artefacts claude.ai** (organisation demandée par l'utilisateur, novembre 2026), fabriqués par `npm run standalone` ; **règle de l'utilisateur (15 novembre 2026) : la version test ne se publie que quand il dit « publie-le » (alors sans redemander) ; s'il ne dit rien, ne pas publier** : **« The Ninja Adventure »** (ex « The Ninja Game », `5f0bb94d-1fa1-48d5-b9b9-f829586682e6`, https://claude.ai/artifact/Cjj8EJCrABmuHzWypJC2cm) = le jeu tel que tout le monde le verra, avec `dist/kage-standalone.html` ; **« The Ninja Adventure Test »** (`cf7a5349-c737-467e-8a85-43de0e34b850`, https://claude.ai/artifact/ScyWi7qXjftmdLs6Qxo7Ys, partagé par lien) = la version où l'utilisateur essaie, avec `dist/kage-test.html` : pas d'écran titre, et un panneau en haut à droite — skins sans achat (clic ou touches 1, 2…), **chapitres en un clic**, **saut de zone en zone** (`setupSkinLab`, `gotoZone` dans `main.js`). Tout nouveau chapitre apparaît de lui-même dans ce panneau (entrée de `LEVELS` avec un champ `chapter`).
+- **Deux artefacts claude.ai** (organisation demandée par l'utilisateur, novembre 2026), fabriqués par `npm run standalone` ; **règle de l'utilisateur (15 novembre 2026) : la version test ne se publie que quand il dit « publie-le » (alors sans redemander) ; s'il ne dit rien, ne pas publier** : **« The Ninja Adventure »** (ex « The Ninja Game », `5f0bb94d-1fa1-48d5-b9b9-f829586682e6`, https://claude.ai/artifact/Cjj8EJCrABmuHzWypJC2cm) = le jeu tel que tout le monde le verra, avec `dist/kage-standalone.html` ; **« The Ninja Adventure Test »** (`cf7a5349-c737-467e-8a85-43de0e34b850`, https://claude.ai/artifact/ScyWi7qXjftmdLs6Qxo7Ys, partagé par lien) = la version où l'utilisateur essaie, avec `dist/kage-test.html` : pas d'écran titre, et un panneau en haut à droite, qui s'ouvre et se ferme tout entier d'un bouton « Réglages » (fermé, il n'empiète pas sur l'image) — skins sans achat (clic ou touches 1, 2…), **chapitres en un clic**, **saut de zone en zone** (`setupSkinLab`, `gotoZone` dans `main.js`). Tout nouveau chapitre apparaît de lui-même dans ce panneau (entrée de `LEVELS` avec un champ `chapter`).
 - **Carte mentale** de tout le jeu : `docs/carte-mentale/index.html` (mode d'emploi dans son README), en ligne avec le jeu (…/ninja-video-game/carte-mentale/). **Règle de l'utilisateur : chaque modification du jeu met aussi la carte à jour**, dans le même commit (boîte ajoutée, état changé, chemins, résumé), puis republier l'artefact de la carte (https://claude.ai/artifact/M1H94uhbSYCRyFAp1Scvzi) avec `python3 tools/carte_mentale.py --artefact <fichier>`. `npm run carte` (inclus dans `npm test`, et vérifié sur chaque PR) échoue si elle a pris du retard.
 - Direction choisie par l'utilisateur : un **monde unique** très long (zones, chapitres, sauvegarde, améliorations de KAGE), pas des niveaux séparés. Plan : `docs/MONDE.md` (carte : `tools/monde_carte.py`).
 
